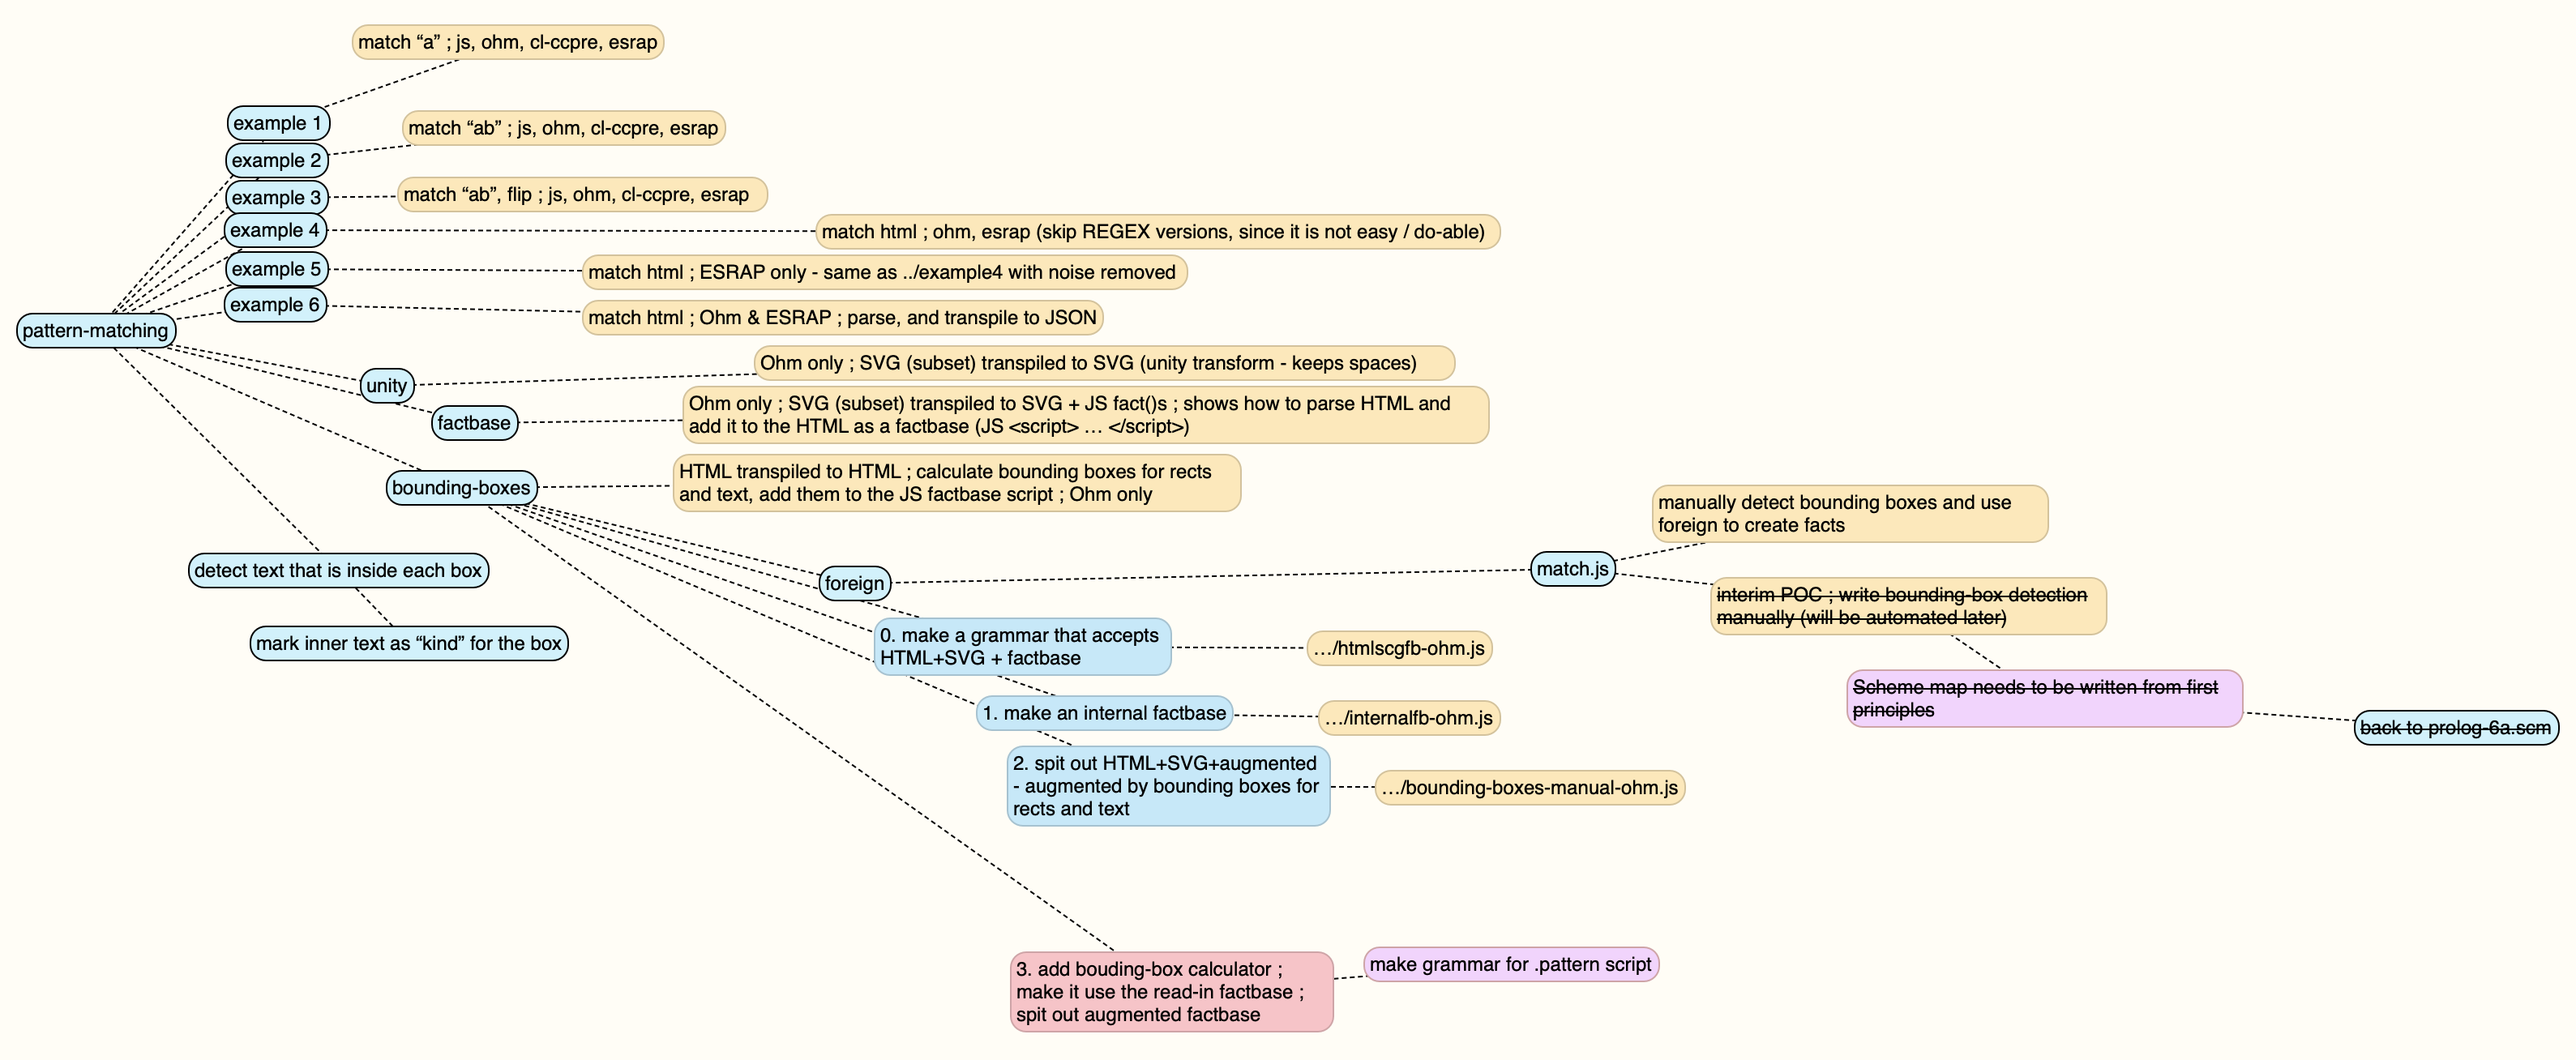
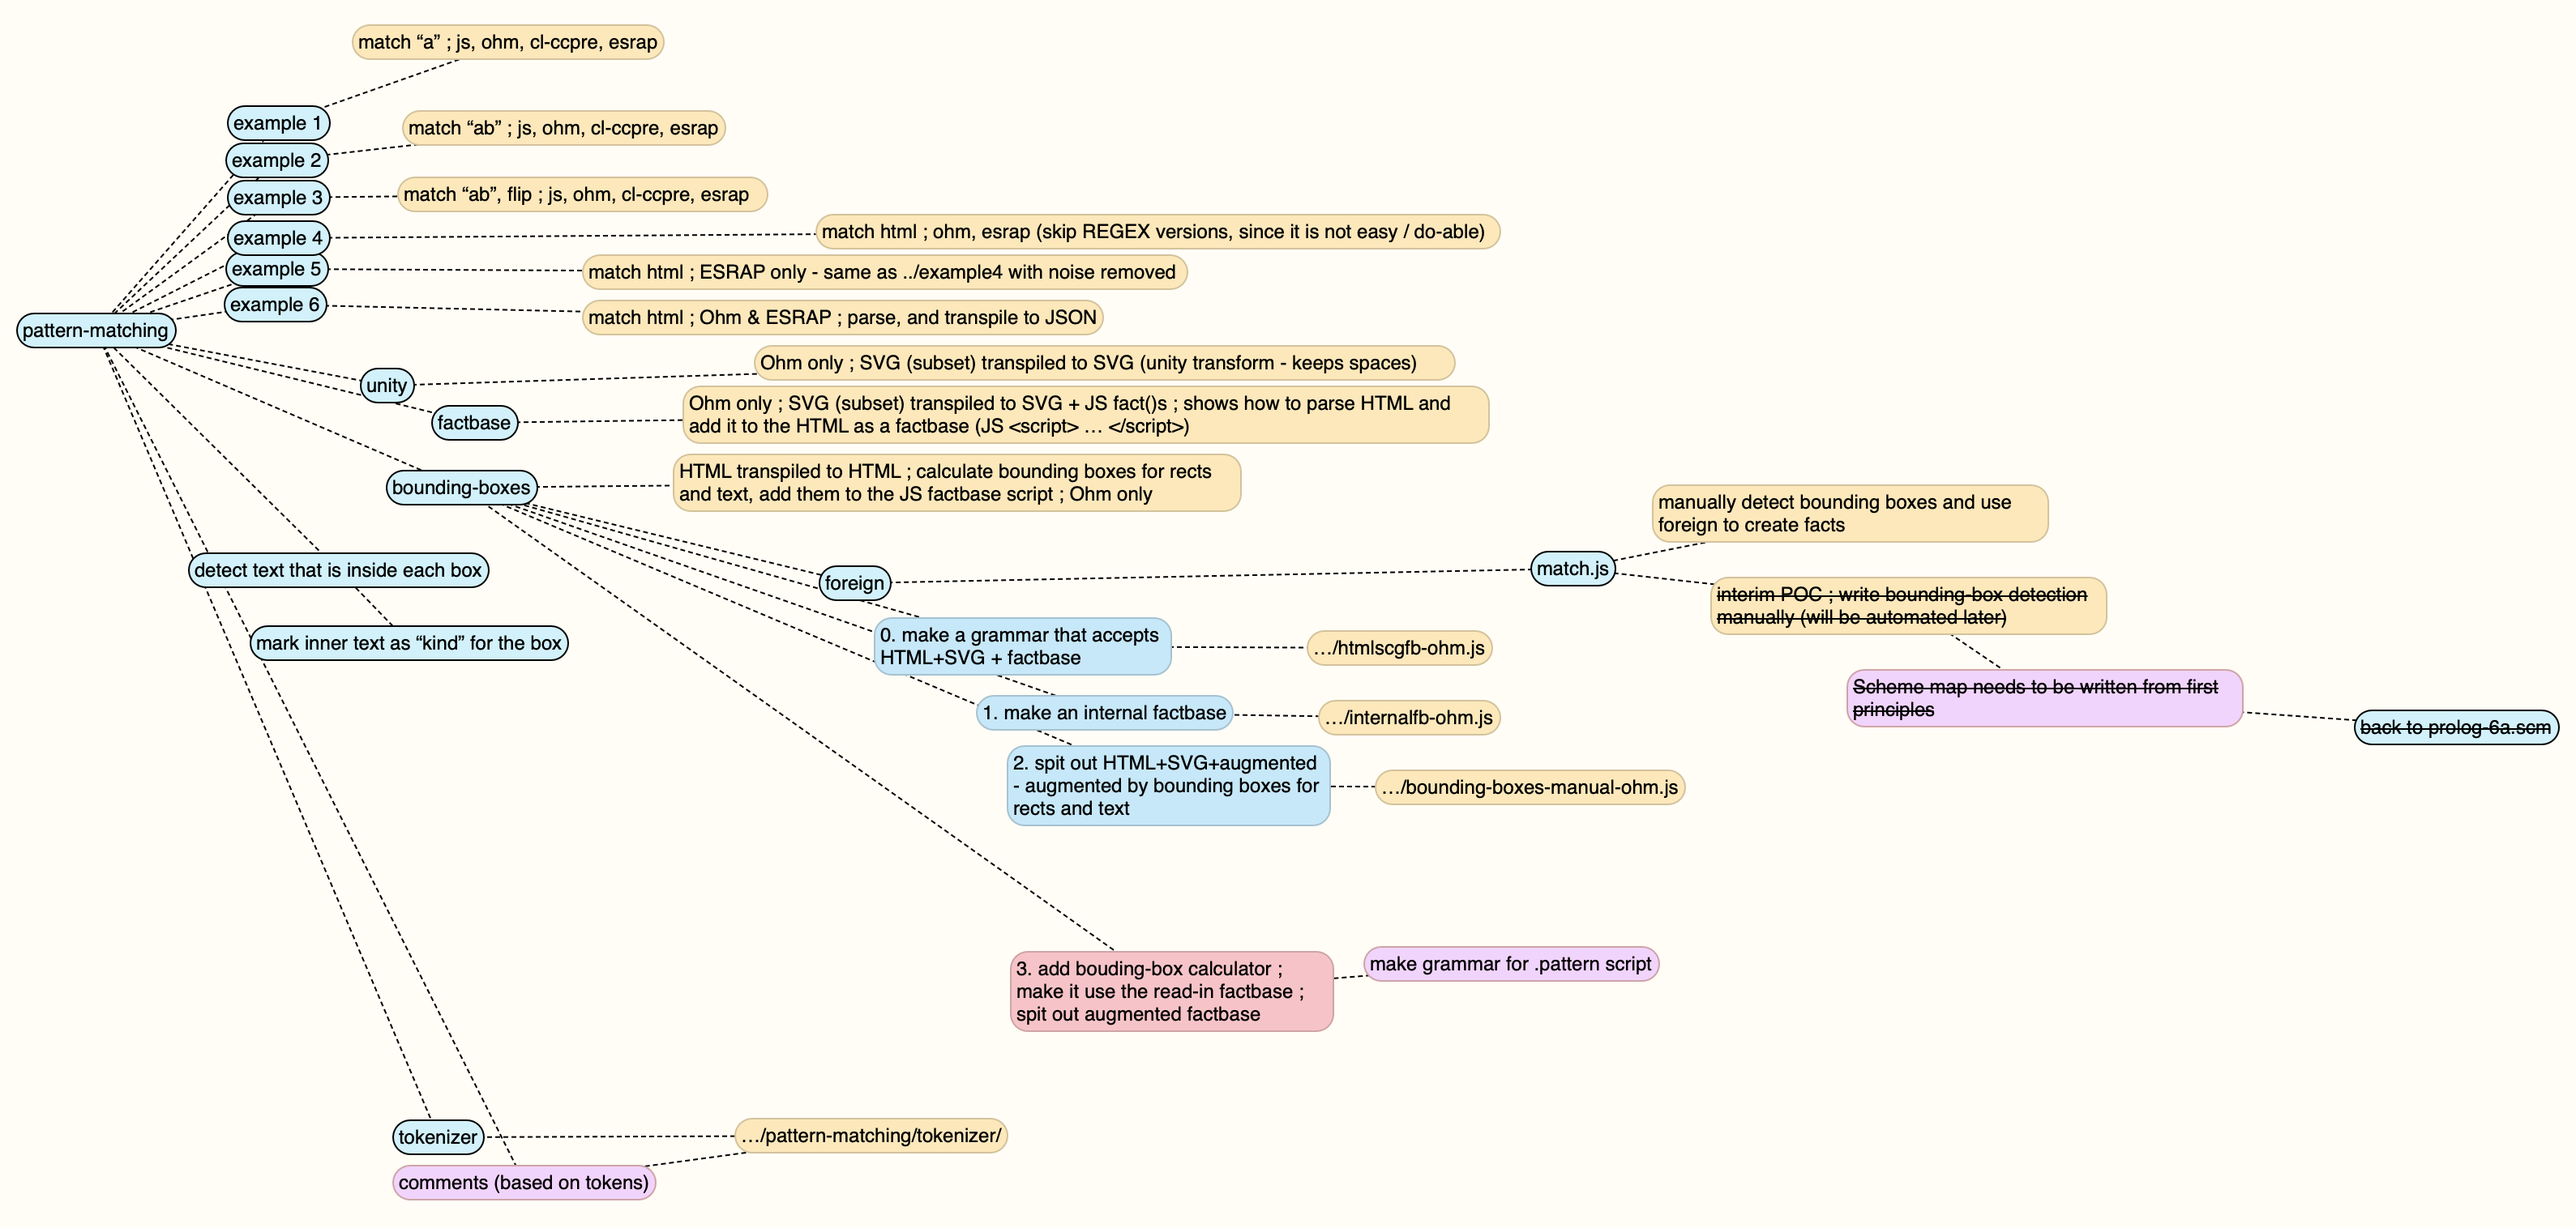
wip: comment showing signs of life, but grabbing too much

diff --git a/tokenizer/comment.js b/tokenizer/comment.js
@@ -2,14 +2,14 @@ const commentGrammar =
   `
   comments {
      TokenArray = "[" Token ("," Token)* "]"
-     Token = CommentToken | BasicToken
+     Token = Comment | BasicToken
      BasicToken = "{" BasicKind "," Text "," Line "," Column "}"
-     CommentToken = SlashSlashToken AnyTokenExceptNewline*
-       SlashSlashToken = FirstSlashToken SlashToken 
+     Comment = SlashSlashToken ("," AnyTokenExceptNewline)*
+     SlashSlashToken = FirstSlashToken "," SlashToken 
        NewlineToken = "{" BasicKind "," newlineChar "," Line "," Column "}"
        FirstSlashToken = "{" BasicKind "," slashChar "," Line "," Column "}"
        SlashToken = "{" BasicKind "," slashChar "," Line "," Column "}"
-       AnyTokenExceptNewline = ~NewlineToken BasicTokenChar
+       AnyTokenExceptNewline = ~NewlineToken BasicToken
        BasicTokenChar = "{" BasicKind "," char "," Line "," Column "}"
      BasicKind = quote "token" quote ":" quote "basic" quote
      Line = quote "line" quote ":" integer
@@ -23,7 +23,7 @@ const commentGrammar =
      char = quote (escapedChar | simpleChar) quote
      escapedChar = "\\\\" any
      simpleChar = any
-     newlineChar = quote "text" quote ":" "'" "\\n" "'"
+     newlineChar = quote "text" quote ":" quote "\\n" quote
      slashChar = quote "text" quote ":" quote "/" quote
    }
 `;
@@ -36,7 +36,7 @@ const commentSemantics = {
 	return JSON.stringify (t2array);
     },
     Token: function (token) { return token.comment (); },
-    CommentToken: function (slashSlashToken, anyTokenExceptNewline_plural) {
+    Comment: function (slashSlashToken, _comma, anyTokenExceptNewline_plural) {
 	var first = slashSlashToken.comment ();
 	var text = joinText (anyTokenExceptNewline_plural.comment ());
 	return { 
@@ -54,7 +54,7 @@ const commentSemantics = {
 	    'column' : column.comment ()
 	}
     },
-    SlashSlashToken: function (firstSlash, _slash) {
+    SlashSlashToken: function (firstSlash, _comma, _slash) {
 	return firstSlash.comment ();
     },
     BasicToken: function (_lbrace, basicKind, _comma1, c, _comma2, line, _comma3, column, _rbrace) { 
